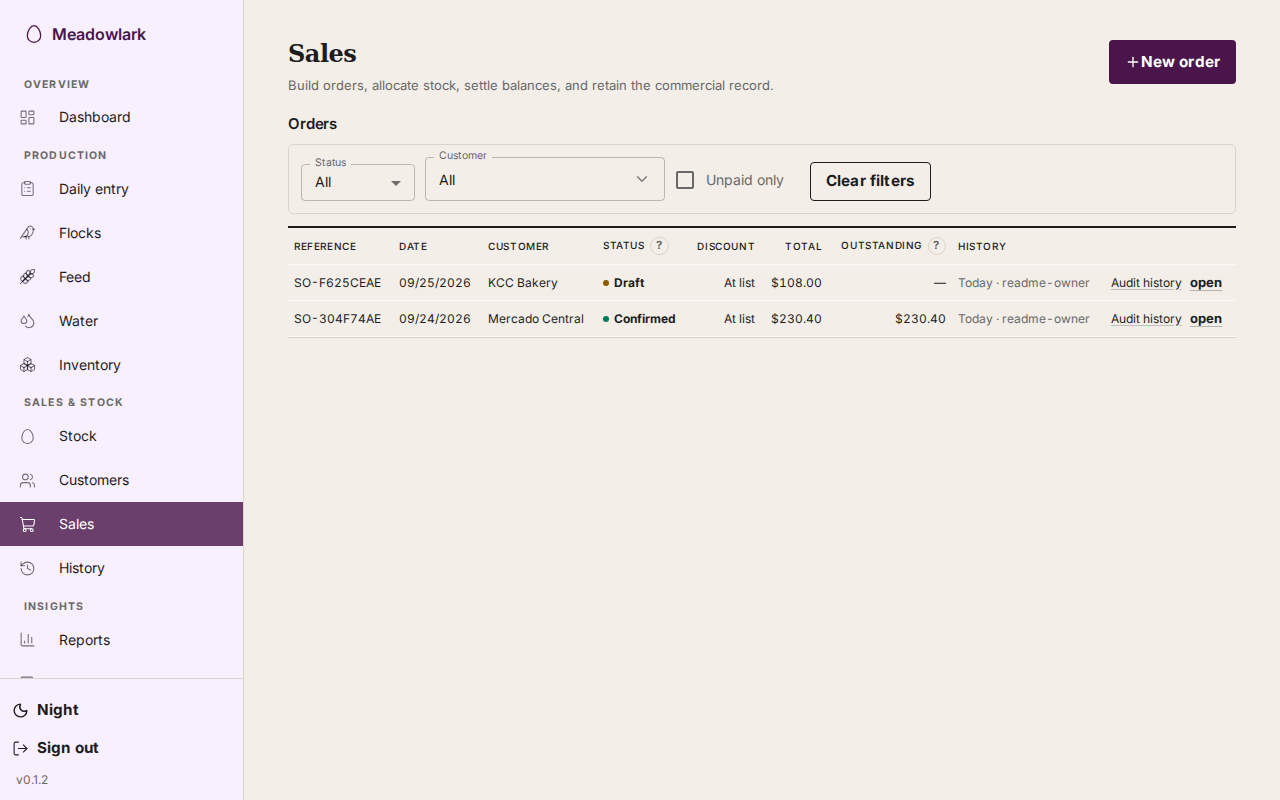
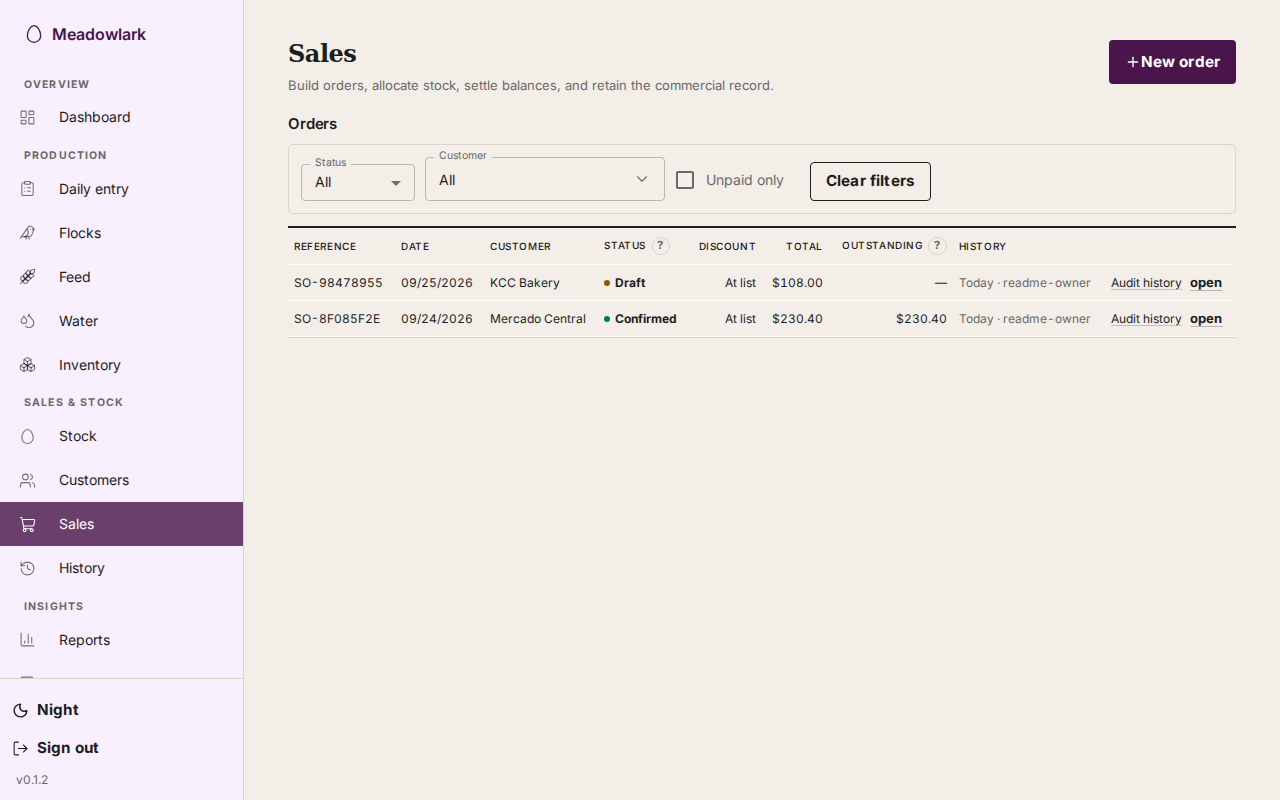
docs: pin final screenshots from fresh fixture

diff --git a/tools/simulation/ui/playwright.screenshots.config.ts b/tools/simulation/ui/playwright.screenshots.config.ts
@@ -1,11 +1,8 @@
 // tools/simulation/ui/playwright.screenshots.config.ts — #549.
 //
 // Captures the README's screenshots from the built SPA over the simulation
-// and demo farms. Deliberately
-// a THIRD config rather than a spec in `specs/`: this run WRITES FILES into the
-// repo (docs/images/), and a capture that rides along with `npm test` would
-// rewrite committed images on every smoke run — turning an unrelated green run
-// into a dirty working tree.
+// and demo farms. This separate config keeps `npm test` from rewriting the
+// committed PNGs in docs/images/ on every smoke run.
 //
 // NOT a visual-regression suite. Nothing here asserts on pixels; rendering is
 // not byte-deterministic across fonts and antialiasing, so a byte-diff gate
